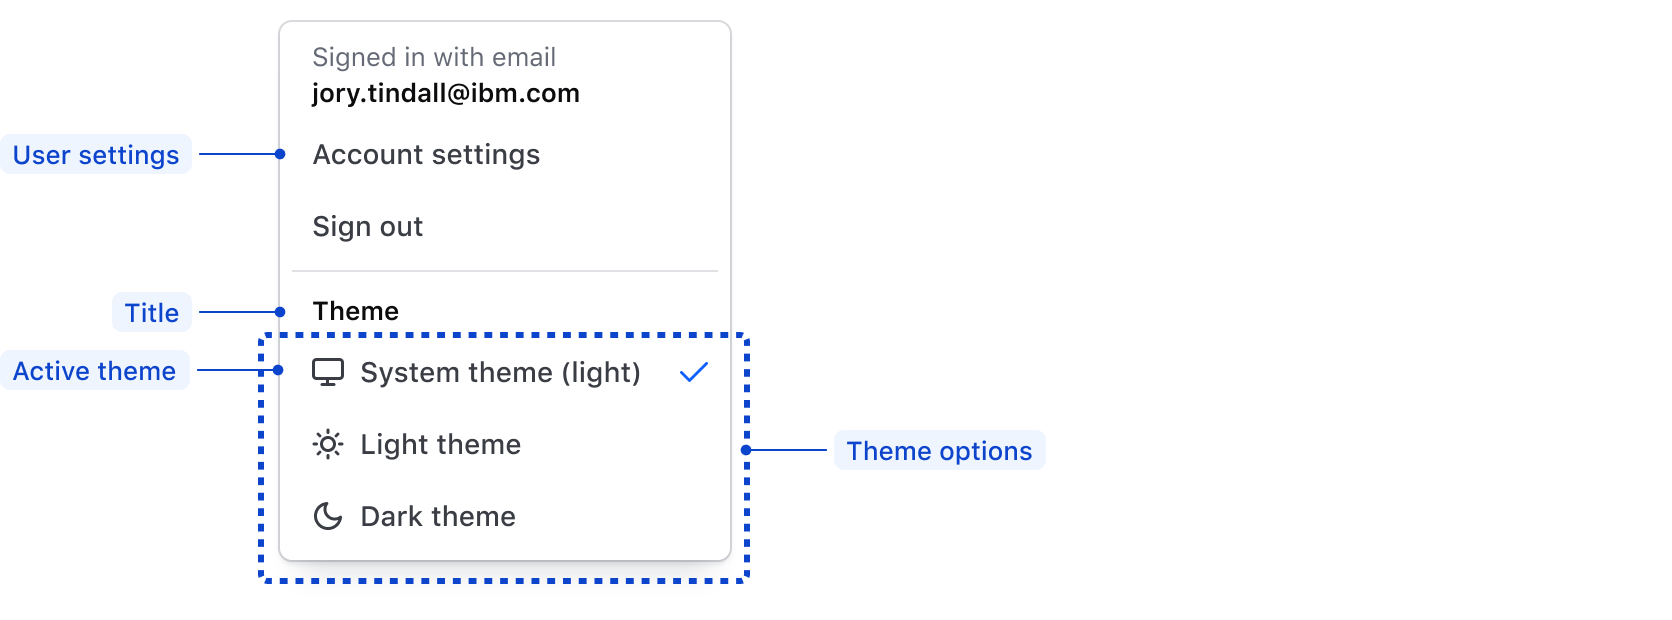
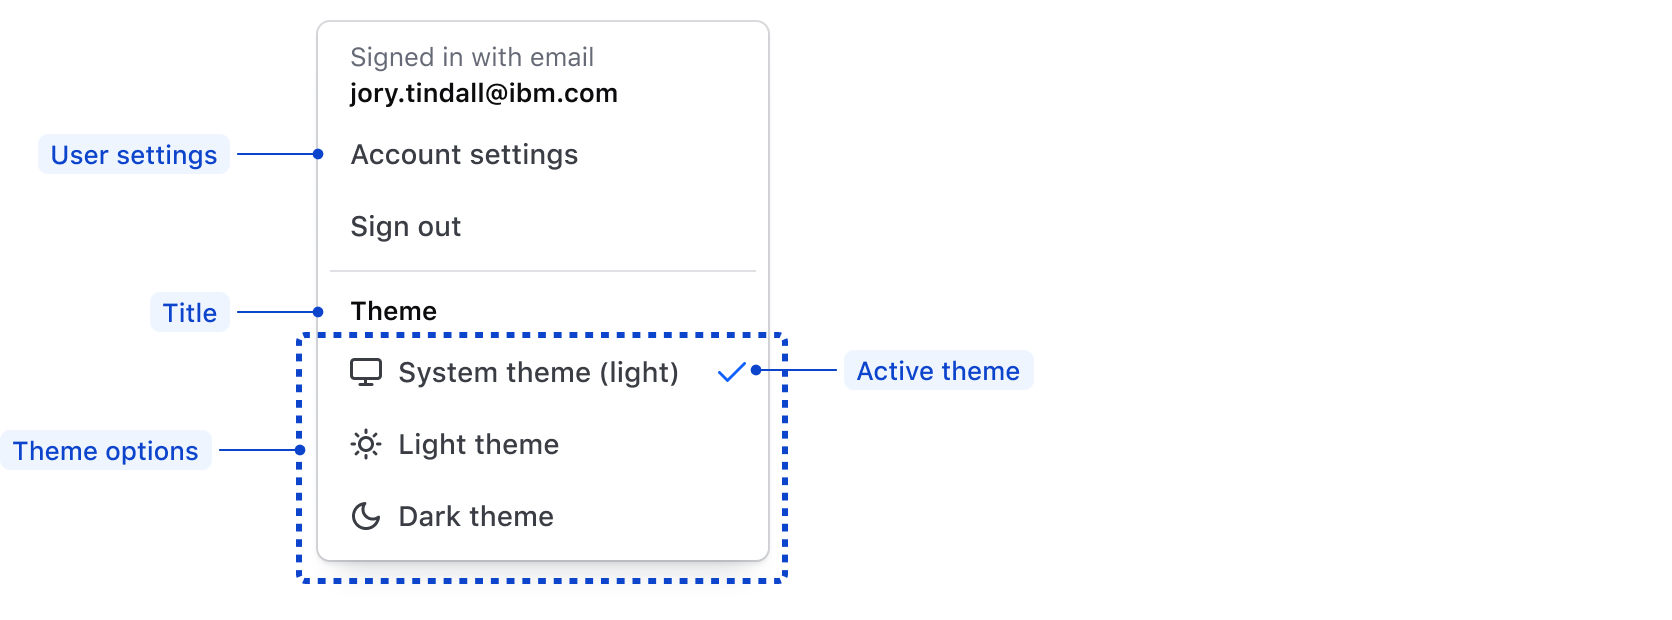
Updating theme picker documentation based on feedback

diff --git a/website/docs/patterns/theme-selection/partials/guidelines.md b/website/docs/patterns/theme-selection/partials/guidelines.md
@@ -1,18 +1,18 @@
-Use the theme selection pattern to provide users with a method to switch the application's visual theme between supported options. Theme selection is accessed from the existing User dropdown in the [App Header](/components/app-header)'s `utilityActions` and does not require a new top-level utility control.
+The theme selector provides users with a way to switch the application's visual theme between supported options. A user can change the theme via the existing User dropdown in the [App Header](/components/app-header)'s `utilityActions`.
 
-![An example of the open user settings menu in the App Header with available theme selection options.](/assets/patterns/theme-selection/theme-selection.png)
-
-In Ember applications, a [theme service (insert link here)](#) is provided to handle switching the theme based on the selected option.
+For more details about how theming is implemented in HDS, and how to use it for theme selection in an Ember application, see [Foundations/Theming](/foundations/theming?tab=code).
 
 ## Placement
 
 Place theme options as a new section within the User dropdown or settings menu in the [App Header](/components/app-header) after the existing account-level actions (Account settings, Sign out).
 
+![An example of the open user settings menu in the App Header with available theme selection options.](/assets/patterns/theme-selection/theme-selection.png)
+
 ## Components
 
-Compose the theme section within the settings menu with these [Dropdown](/components/dropdown) List Item components:
+The theme section should be composed using the [Dropdown](/components/dropdown) contextual components:
 
-- **Separator**: adds visual differentiation between the theme selection and the account actions and settings.
+- **Separator**: adds visual differentiation between the theme selection, the account actions, and settings.
 - **Title**: section label; set the text to "Theme"
 - **Checkmark**: one instance per theme option; includes a leading icon and accounts for the selected state
 

diff --git a/website/docs/patterns/theme-selection/partials/anatomy.md b/website/docs/patterns/theme-selection/partials/anatomy.md
@@ -4,7 +4,7 @@
 
 | Element | Usage |
 |---------|-------|
-| User settings | Application-specific, generally consists of user/account settings and authentication settings |
+| User settings | Application-specific, generally consists of user/account settings and authentication settings. |
 | Title | Labels the theme selection in the menu. Uses the `ListItem::Title` element. |
 | Theme options | An array of theme options using the `ListItem::Checkmark` component. |
 | Active theme | Indicates the current/selected theme using the checked `ListItem::Checkmark`. |
